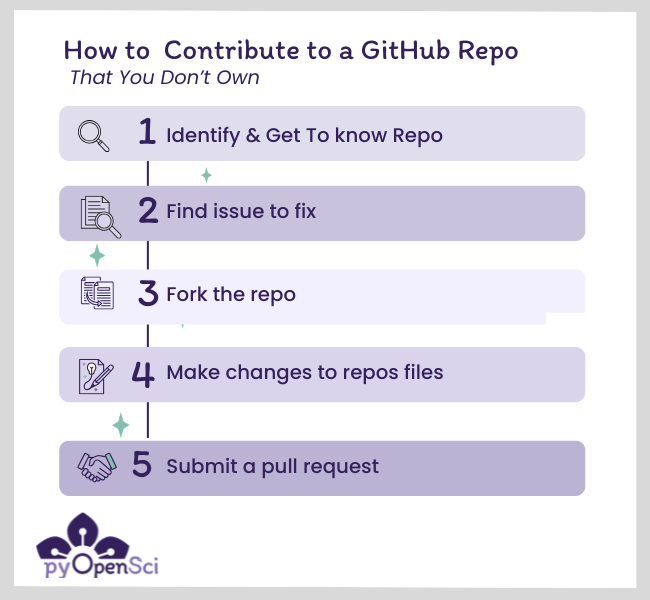
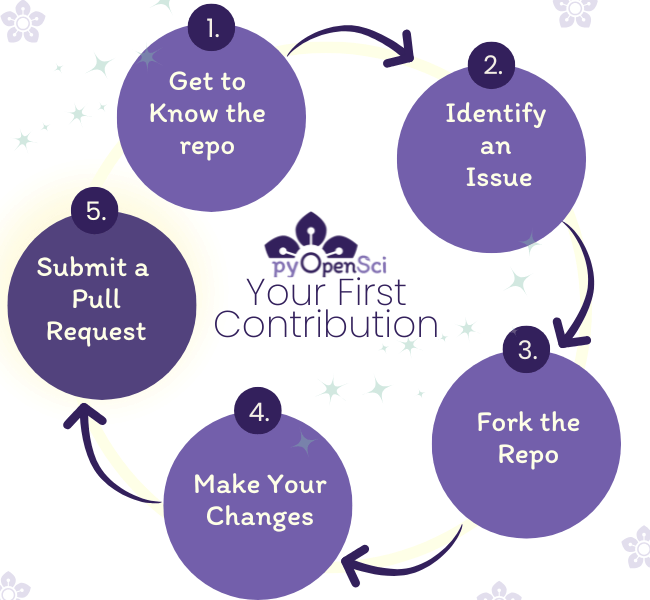
fix: add new contributor graphic and activities at the top

diff --git a/github-git/1-get-to-know-repo.md b/github-git/1-get-to-know-repo.md
@@ -15,35 +15,64 @@ kernelspec:
 # Get to Know a (new to you) GitHub Repository
 
 :::{admonition} What you will learn:
+:class: tip
 
-In this tutorial, you will get to know a GitHub repo that you want to contribute to. You will learn how to find the CONTRIBUTING.md file in our [example GitHub repo](https://github.com/pyOpenSci/pyos-demo-package-contribute) and identify the process for submitting a contribution to the repo. 
+In this tutorial, you will get to know a GitHub repo that you want to contribute to. You will learn how to find the CONTRIBUTING.md file in our [example GitHub repo](https://github.com/pyOpenSci/pyos-demo-package-contribute) and identify the process for submitting a contribution to the repo.
 :::
 
+The activity that you will complete is below. Read on, however, to learn more about the steps.
+
+:::{admonition} Activity 1: Get to know the repository
+
+In your browser, navigate to [https://github.com/pyOpenSci/pyos-demo-package-contribute/](https://github.com/pyOpenSci/pyos-demo-package-contribute/).
+
+* Check out the README and CONTRIBUTING files.
+
+### Answer these questions
+
+* Does the repository accept contributions? If so, what types of contributions are accepted?
+* Does the repository use specific code or text formatting standards or liters?
+* Does the repository have continuous integration (CI) set up?
+* What is the license associated with the code in the repository?
+* Are the issues labeled and are there "good first issue" or "help wanted" labels 
+:::
 
 (contributing)=
-## Get started
+## How to get to know a repo
 
-To begin, get to know the repository that you want to contribute:
+Familiarize yourself with the repository you want to contribute to:
 
-* **Check out the README file**: Check out the [**README.md** file](https://github.com/pyOpenSci/pyos-demo-package-contribute/blob/main/README.md) to learn more about the project, how it's used and often, it will guide you to the project's contributing and development guides for making contributing if they exist.  
-* **Read the contributing guide**: The [**CONTRIBUTING.md** file](https://github.com/pyOpenSci/pyos-demo-package-contribute/blob/main/CONTRIBUTING.md) that tells you more about the types of contributions this project accepts and the workflows it embraces.
+* **Check out the README file**: The [**README.md** file](https://github.com/pyOpenSci/pyos-demo-package-contribute/blob/main/README.md) provides an overview of the project, its purpose, and how it is used. Often, it also links to the project's contributing and development guides, if they exist.
+* **Read the contributing guide**: The [**CONTRIBUTING.md** file](https://github.com/pyOpenSci/pyos-demo-package-contribute/blob/main/CONTRIBUTING.md) explains what types of contributions the project accepts and the workflows contributors should follow.
+* **Evaluate the documentation**: Consider whether the documentation (README, CONTRIBUTING, or others) is comprehensive and up to date. If it's not, this could be a great starting point for your first contribution!
 
 :::{figure} /images/github/github-contributing-file.png
 :alt: "Screenshot of the GitHub repository ‘pyos-demo-package-contribute’ showing files and folders, including README.md, CONTRIBUTING.md, and LICENSE. The sidebar highlights metadata, such as the repository description, links, and license details. The README.md and CONTRIBUTING.md files are highlighted."
 
-Above is a screenshot of the pyOpensci practice repo that you will use. Notice the CONTRIBUTING.md file. You should read this file after checking out the README file. 
+Above is a screenshot of the pyOpenSci practice repo that you will use. Notice the CONTRIBUTING.md file. You should read this file after checking out the README file.
 :::
 
-## Documentation counts! 
+### Get to know the project's infrastructure
 
-Many people's first contributions are to documentation! Documentation contributions can be incredibly valuable as developers often don't have time to work on documentation and code!
+* **Code formatters and linters**: Does the project use any [code formatters or linters](https://www.pyopensci.org/python-package-guide/package-structure-code/code-style-linting-format.html#python-package-code-style-format-and-linters) in its workflows? This information is often found in the development or contributing guide.
+* **Continuous Integration (CI)**: Does the project have [Continuous Integration](https://www.pyopensci.org/python-package-guide/continuous-integration/ci.html#what-is-continuous-integration) set up to run tests when a new pull request or change is submitted?
+* **License**: Check the [project’s license](https://www.pyopensci.org/python-package-guide/documentation/repository-files/license-files.html) to understand the terms for using, modifying, and contributing to the code. For example:
+  - An MIT license permits broad use, modification, and distribution with attribution.
+  - A GPL license requires that derivative works are open-sourced under the same terms.
+  Understanding the project's license helps you understand your rights and responsibilities as a contributor.
 
-Fixing typos and other small documentation issues makes for great, easy-to-create (and review) first pull requests. In fact, if you find that the contributing information isn't detailed enough, that could also be your first contribution!
+### Project organization 
 
-When you edit documentation, you can often make the changes in the GitHub interface online versus needing to clone the repository and work locally.
+* Look for labels like **"good first issue"** or **"help wanted"** on the repository’s issues page. These highlight tasks ideal for beginners. If you don’t see these labels, ask maintainers for guidance on where to start.
+* Check if the repository includes a **Code of Conduct** or community guidelines. These outline expectations for respectful collaboration. If absent, observe discussions in issues or pull requests or ask maintainers for clarification.
 
+### Social cues and repository activity
 
-:::{admonition} A real-life first contribution to PyPI
+You might also want to evaluate the activity and health of the community. This can signal whether the project is actively maintained.
 
-[Here is an example issue that resulted in 2 small pull requests to PyPI (warehouse)](https://github.com/pypi/warehouse/issues/17374). In this case, the images were outdated, so it was a bug in the documentation that needed to be fixed. However, while getting to know the repository, the author also found issues with the development documentation, so they submitted a pull request to address that as well. Both pull requests were small. 
-:::
+* What is the date of the most recent commit to the repository?
+* Are there a lot of open issues and pull requests?
+* How long does it take for maintainers to respond to open issues or pull requests?
+* Does the repository have many forks and stars? While not a definitive metric, these can indicate community interest and engagement.
+
+If the project has recent commits, a responsive maintainer team, and clear documentation, it is likely a good candidate for contributions. Conversely, many unresolved issues or stale pull requests might indicate less active maintenance.

diff --git a/github-git/0-first-contribution.md b/github-git/0-first-contribution.md
@@ -18,16 +18,13 @@ kernelspec:
 
 :::{admonition} What you will learn
 
-After completing this tutorial, you will be able to:
-
-* List the steps involved in contributing to an open source project
-
-You can use the [pyOpenSci example GitHub repository](https://github.com/pyOpenSci/pyos-demo-package-contribute) to practice making contributions for all of these lessons. 
+After completing this tutorial, you will have the skills needed to contribute to an open source GitHub 
+repository. You will use the [pyOpenSci example GitHub repository](https://github.com/pyOpenSci/pyos-demo-package-contribute) to practice making contributions. 
 :::
 
 Contributing to open source in a public space like GitHub can feel intimidating. You may not know the project maintainers, feel unsure about your GitHub skills, or wonder where to begin.
 
-This lesson series will teach you how to collaborate on code and documentation using GitHub. It will help you confidently contribute to a GitHub repository and build skills to collaborate with colleagues (some of whome you may not have met in real life!). 
+This lesson series will teach you how to collaborate on code and documentation using GitHub. It will help you confidently contribute to a GitHub repository and build skills to collaborate with colleagues (some of whom you may not have met in real life!). 
 
 ## GitHub workflow summary
 
@@ -35,9 +32,25 @@ This lesson series will teach you how to collaborate on code and documentation u
 :::{figure} /images/github/steps-to-contribute.png
 :alt: alt text here
 
-To fork a repo, first, navigate to the repo you want to fork. Then click the **fork** button in the upper right-hand corner of your screen. You can then create a copy of this repo in your account.
+The steps for making your first contribution to an open source repo. In this lesson, you will do all of your work on GitHub.com, meaning you don't need to clone or make a copy of your repository locally. This is a great way to get started with contributing. It minimizes the command line skills that you will need to use git. 
 :::
 
+## Documentation counts! 
+
+Many people's first contributions are to documentation! Documentation contributions can be incredibly valuable as developers often don't have time to work on documentation and code!
+
+Fixing typos and other small documentation issues makes for great, easy-to-create (and review) first pull requests. In fact, if you find that the contributing information isn't detailed enough, that could also be your first contribution!
+
+When you edit documentation, you can often make the changes in the GitHub interface online versus needing to clone the repository and work locally.
+
+
+:::{admonition} A real-life first contribution to PyPI
+
+[Here is an example issue that resulted in 2 small pull requests to PyPI (warehouse)](https://github.com/pypi/warehouse/issues/17374). In this case, the images were outdated, so it was a bug in the documentation that needed to be fixed. However, while getting to know the repository, the author also found issues with the development documentation, so they submitted a pull request to address that as well. Both pull requests were small. 
+:::
+
+
+:::{todo}
 Your GitHub contribution workflow will be something like this:
 
 1. First, you will identify a repository you want to contribute to. Here, you can use the [pyOpenSci learning repository](https://github.com/pyOpenSci/pyos-demo-package-contribute) to test your skills. 
@@ -47,7 +60,7 @@ Your GitHub contribution workflow will be something like this:
 1. In your fork, you will edit the file(s) addressed in your issue. In this lesson series, you will do [all of the work in the GitHub interface](4-edit-commit-files), which means that you don't have to [clone (or copy)](6-clone-repo) the repo locally to your computer. 
 1. Once your edits are complete, you will commit the changes and open a <kbd>Pull Request</kbd> to the parent repository.  
      * Finally, wait for the developers to review/comment on your PR. Be patient; this step can take time as people are busy and often donate their time to this effort!
-
+:::
 
 ## Time to get started!
 

diff --git a/index.md b/index.md
@@ -62,7 +62,7 @@ TODO: let's merge this with the conditional lesson
 ::::
 
 ::::{grid-item}
-:::{card} [✿ Collaborative GitHub ✿](github-git/intro)
+:::{card} [✿ Collaborative GitHub ✿](github-git/0-first-contribution)
 :class-card: left-aligned
 
 Learn how to make your first contribution to an open source code hosted on GitHub.
